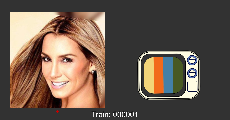
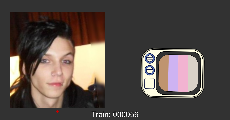
color orders

diff --git a/face.js b/face.js
@@ -42,10 +42,10 @@ function Face() {
   this.lipColour = [136, 68, 68];
   this.eyebrowColour = [59, 95, 120];
 
-  this.screenRed = [255, 15, 115];
-  this.screenGreen = [38, 145, 40];
-  this.screenBlue = [15, 107, 255];
-  this.colorOption = [this.screenRed, this.screenGreen, this.screenBlue];
+  this.screenLight = ['#D9D1C7', '#F2B3D1', '#CEB3F2', '#BF946F'];
+  this.screenNeutral = ['#F2D479', '#F26A1B', '#4480A6', '#485922'];
+  this.screenDark = ['#D99B29', '#A60815', '#2E7B8C', '#012623'];
+  this.colorOption = [this.screenLight, this.screenNeutral, this.screenDark];
   this.colorSwitch = 2;
 
   
@@ -67,8 +67,9 @@ function Face() {
     this.headSize_L = positions.nose_tip[2][0] - positions.chin[2][0]; // Size of left side head
     this.headSize_R = positions.chin[14][0] - positions.nose_tip[2][0]; // Size of right side head
     this.headOffset;
-    this.eyePos_X;
-    this.eyePos_Y;
+    this.knobPos_X;
+    this.knobPos_Y_up = this.headPosY - 1.1;
+    this.knobPos_Y_down = this.headPosY - 0.2;
 
     this.topLeftCorner_X = this.headPosX - this.headWidth / 2 + this.roundCorner * 2;
     this.topLeftCorner_Y = this.headPosY - this.headHeight*1.25 /2 + this.roundCorner * 2;
@@ -100,18 +101,22 @@ function Face() {
 
     // To get the facing direction
     if(this.headSize_L < this.headSize_R){
-      this.headOffset = -this.headWidth * 1.5;
-      this.eyePos_X = 1.5;
-      this.eyePos_Y = -0.9;
-      // this.headOffset = this.headSize_R * (this.headSize_R / this.headSize_L);
-      // this.headOffsetRatio = this.headSize_R / this.headSize_L;
+      this.headOffset = -this.headWidth;
+      this.knobPos_X = this.headPosX - this.headOffset*0.44;
+
+      this.leftColorBar = 0; // Screen color bar from light to dark when screen on the left side
+      this.leftMidColorBar = 1;
+      this.rightMidColorBar = 2;
+      this.rightColorBar = 3;
     }
     else if(this.headSize_L > this.headSize_R){
-      this.headOffset = this.headWidth * 1.5;
-      this.eyePos_X = -1.5;
-      this.eyePos_Y = -0.9;
-      // this.headOffset = -this.headSize_L * (this.headSize_L / this.headSize_R);
-      // this.headOffsetRatio = this.headSize_L / this.headSize_R;
+      this.headOffset = this.headWidth;
+      this.knobPos_X = this.headPosX - this.headOffset*0.44;
+
+      this.leftColorBar = 3; // Screen color bar from dark to light when screen on the right side
+      this.leftMidColorBar = 2;
+      this.rightMidColorBar = 1;
+      this.rightColorBar = 0;
     }
     // rect(segment_average(positions.chin)[0]+1.4, 0, 3.6, 3, 0.9);
     // rect(segment_average(positions.chin)[0]+1, 0, 3.6, 3.5, 0.5);
@@ -130,27 +135,28 @@ function Face() {
     // strokeWeight(0.1);
     // translate(this.headOffset*0.12, 0);
     fill(50,50,50);
-    rect(this.headPosX + this.headOffset*0.07, this.headPosY, this.headWidth*0.85, this.headHeight*1.25*1.05, this.roundCorner * 0.8);
+    rect(this.headPosX + this.headOffset*0.105, this.headPosY, this.headWidth*0.85, this.headHeight*1.25*1.05, this.roundCorner * 0.8);
     pop();
 
     push();
     // strokeWeight(0.1);
     // translate(this.headOffset*0.12, 0);
     fill(this.mainColour);
-    rect(this.headPosX + this.headOffset*0.07, this.headPosY, this.headWidth*0.75, this.headHeight*1.25*0.9, this.roundCorner * 1);
+    rect(this.headPosX + this.headOffset*0.105, this.headPosY, this.headWidth*0.75, this.headHeight*1.25*0.9, this.roundCorner * 1);
     pop();
 
     // Draw the 'Test Pattern' screen
     push();
+    
     noStroke();
-    fill('#F2D479');
-    rect(this.headPosX + this.headOffset*0.07 - 0.75, this.headPosY, this.headWidth*0.75*0.5, this.headHeight*1.25*0.89, this.roundCorner * 1);
-    fill('#485922');
-    rect(this.headPosX + this.headOffset*0.07 + 0.75, this.headPosY, this.headWidth*0.75*0.5, this.headHeight*1.25*0.89, this.roundCorner * 1);
-    fill('#F26A1B');
-    rect(this.headPosX + this.headOffset*0.07 - 0.375, this.headPosY, this.headWidth*0.75*0.25, this.headHeight*1.25*0.89, this.roundCorner * 0);
-    fill('#4480A6');
-    rect(this.headPosX + this.headOffset*0.07 + 0.375, this.headPosY, this.headWidth*0.75*0.25, this.headHeight*1.25*0.89, this.roundCorner * 0);
+    fill(this.colorOption[this.colorSwitch][this.leftColorBar]);
+    rect(this.headPosX + this.headOffset*0.105 - 0.75, this.headPosY, this.headWidth*0.75*0.5, this.headHeight*1.25*0.89, this.roundCorner * 1);
+    fill(this.colorOption[this.colorSwitch][this.rightColorBar]);
+    rect(this.headPosX + this.headOffset*0.105 + 0.75, this.headPosY, this.headWidth*0.75*0.5, this.headHeight*1.25*0.89, this.roundCorner * 1);
+    fill(this.colorOption[this.colorSwitch][this.leftMidColorBar]);
+    rect(this.headPosX + this.headOffset*0.105 - 0.375, this.headPosY, this.headWidth*0.75*0.25, this.headHeight*1.25*0.89, this.roundCorner * 0);
+    fill(this.colorOption[this.colorSwitch][this.rightMidColorBar]);
+    rect(this.headPosX + this.headOffset*0.105 + 0.375, this.headPosY, this.headWidth*0.75*0.25, this.headHeight*1.25*0.89, this.roundCorner * 0);
     pop();
 
     // Draw circle helper
@@ -254,21 +260,22 @@ function Face() {
     let left_eye_pos = segment_average(positions.left_eye);
     let right_eye_pos = segment_average(positions.right_eye);
 
-    // blendMode(BURN);
     noFill();
     stroke(0, 7, 56);
     let curEyeShift = 0.04 * this.eye_shift;
     if(this.num_eyes == 2) {
       fill(this.detailColour);
-      ellipse(this.eyePos_X, this.eyePos_Y, this.headHeight*0.3);
-      ellipse(this.eyePos_X, this.eyePos_Y+1, this.headHeight*0.3);
+      ellipse(this.knobPos_X, this.knobPos_Y_up, this.headHeight*0.3);
+      ellipse(this.knobPos_X, this.knobPos_Y_down, this.headHeight*0.3);
       fill(this.mainColour);
-      ellipse(this.eyePos_X, this.eyePos_Y, this.headHeight*0.2);
-      ellipse(this.eyePos_X, this.eyePos_Y+1, this.headHeight*0.2);
-      rect(this.eyePos_X, this.eyePos_Y, this.headHeight*0.2, this.headHeight*0.05);
-      rect(this.eyePos_X, this.eyePos_Y+1, this.headHeight*0.2, this.headHeight*0.05);
+      ellipse(this.knobPos_X, this.knobPos_Y_up, this.headHeight*0.2);
+      ellipse(this.knobPos_X, this.knobPos_Y_down, this.headHeight*0.2);
 
-      rect(this.eyePos_X, this.eyePos_Y+2, this.headHeight*0.3, this.headWidth*0.2, 0.1);
+
+      rect(this.knobPos_X, this.knobPos_Y_up, this.headHeight*0.2, this.headHeight*0.05);
+      rect(this.knobPos_X, this.knobPos_Y_down, this.headHeight*0.2, this.headHeight*0.05);
+
+      rect(this.knobPos_X, this.knobPos_Y_down+1, this.headHeight*0.3, this.headWidth*0.2, 0.1);
 
       // Eye lids
       // fill(0);

diff --git a/README.md b/README.md
@@ -2,4 +2,5 @@
 [![Open in Visual Studio Code](https://classroom.github.com/assets/open-in-vscode-718a45dd9cf7e7f842a935f5ebbe5719a5e09af4491e668f4dbf3b35d5cca122.svg)](https://classroom.github.com/online_ide?assignment_repo_id=11103452&assignment_repo_type=AssignmentRepo)
 ## 2023 MDDN342 Assignment 3: Data Mappings
 
-The Knobs and screen 'test pattern' have been done.
+Knobs are parameterized with the head.
+Three color-group options added and the color bars' order will follow the facing direction (left or right). 
